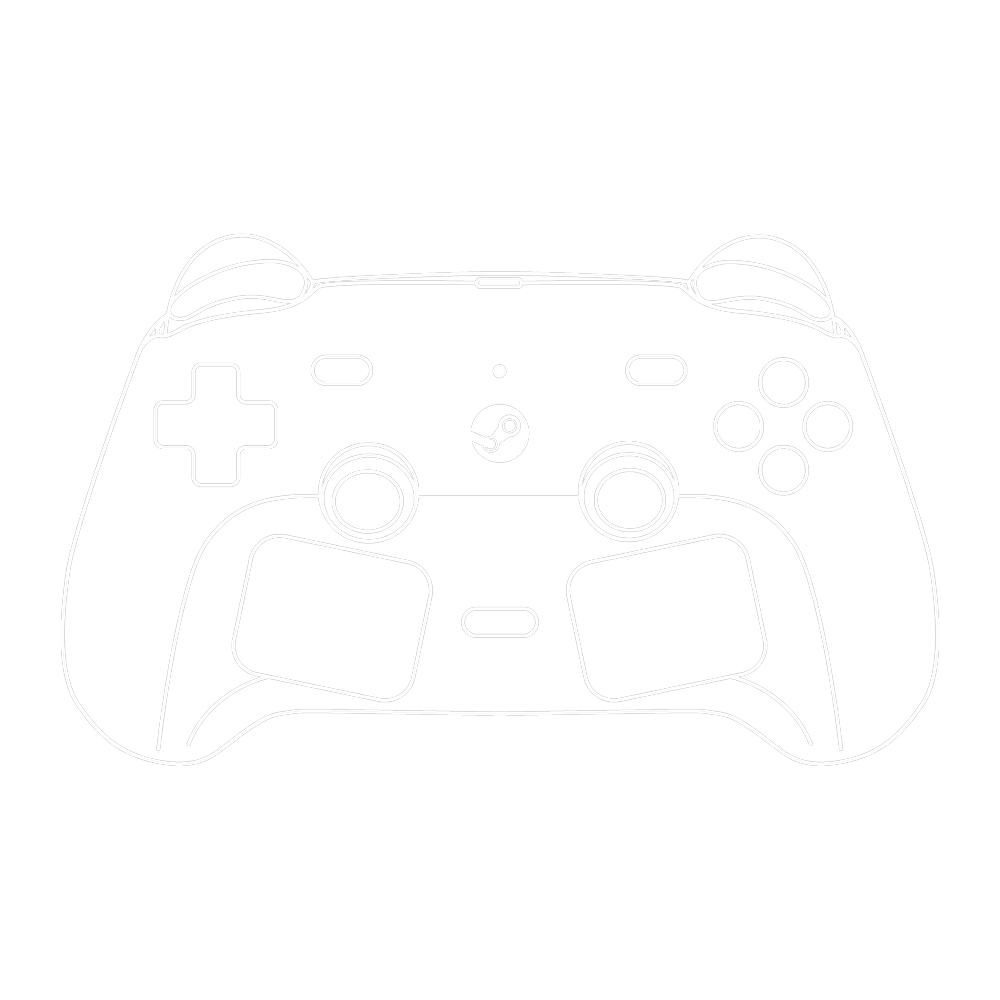
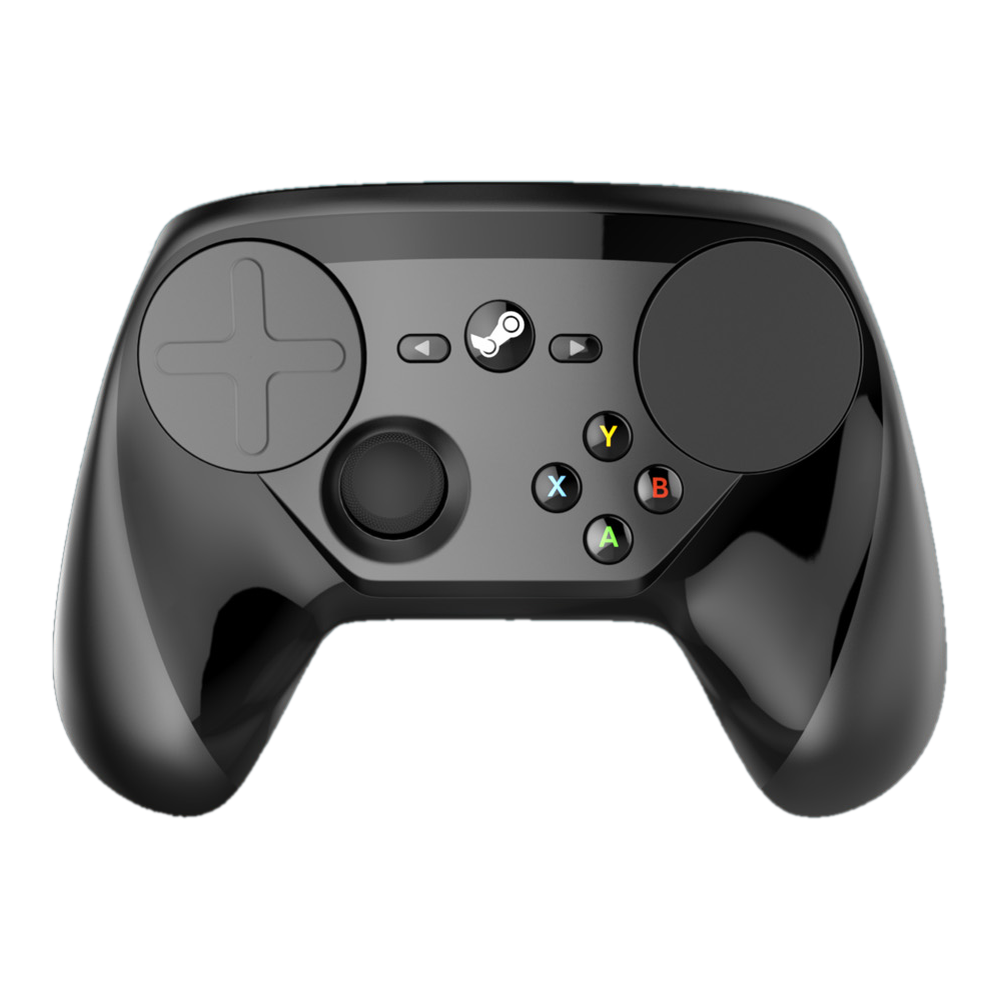
fix: replace Steam Controller wireframe with high-res official product image and bump cache buster

diff --git a/index.html b/index.html
@@ -47,8 +47,8 @@
     html[data-language="zh"] button.language-toggle [data-lang-option="en"],
     html[lang="zh-Hant"] button.language-toggle [data-lang-option="en"] { color: #64748b !important; }
   </style>
-  <link rel="stylesheet" href="styles.css?v=20261009-vti490">
-  <script defer src="app.js?v=20261009-vti490"></script>
+  <link rel="stylesheet" href="styles.css?v=20261009-steam">
+  <script defer src="app.js?v=20261009-steam"></script>
 </head>
 <body>
   <a class="skip-link" id="skip-link" href="#main-content">Skip to main content</a>

diff --git a/app.js b/app.js
@@ -8,7 +8,7 @@
 
 "use strict";
 
-const DATA_URL = "data.json?v=20261009-vti490";
+const DATA_URL = "data.json?v=20261009-steam";
 
 /**
  * Shorthand for document.getElementById.
@@ -40,7 +40,7 @@ function make(tag, className, text) {
  */
 function makeImage(src, alt = "", eager = false) {
   const image = make("img");
-  image.src = src;
+  image.src = src ? (src.includes("?") ? src : `${src}?v=20261009-steam`) : src;
   image.alt = alt;
   image.decoding = "async";
   if (!eager) image.loading = "lazy";
